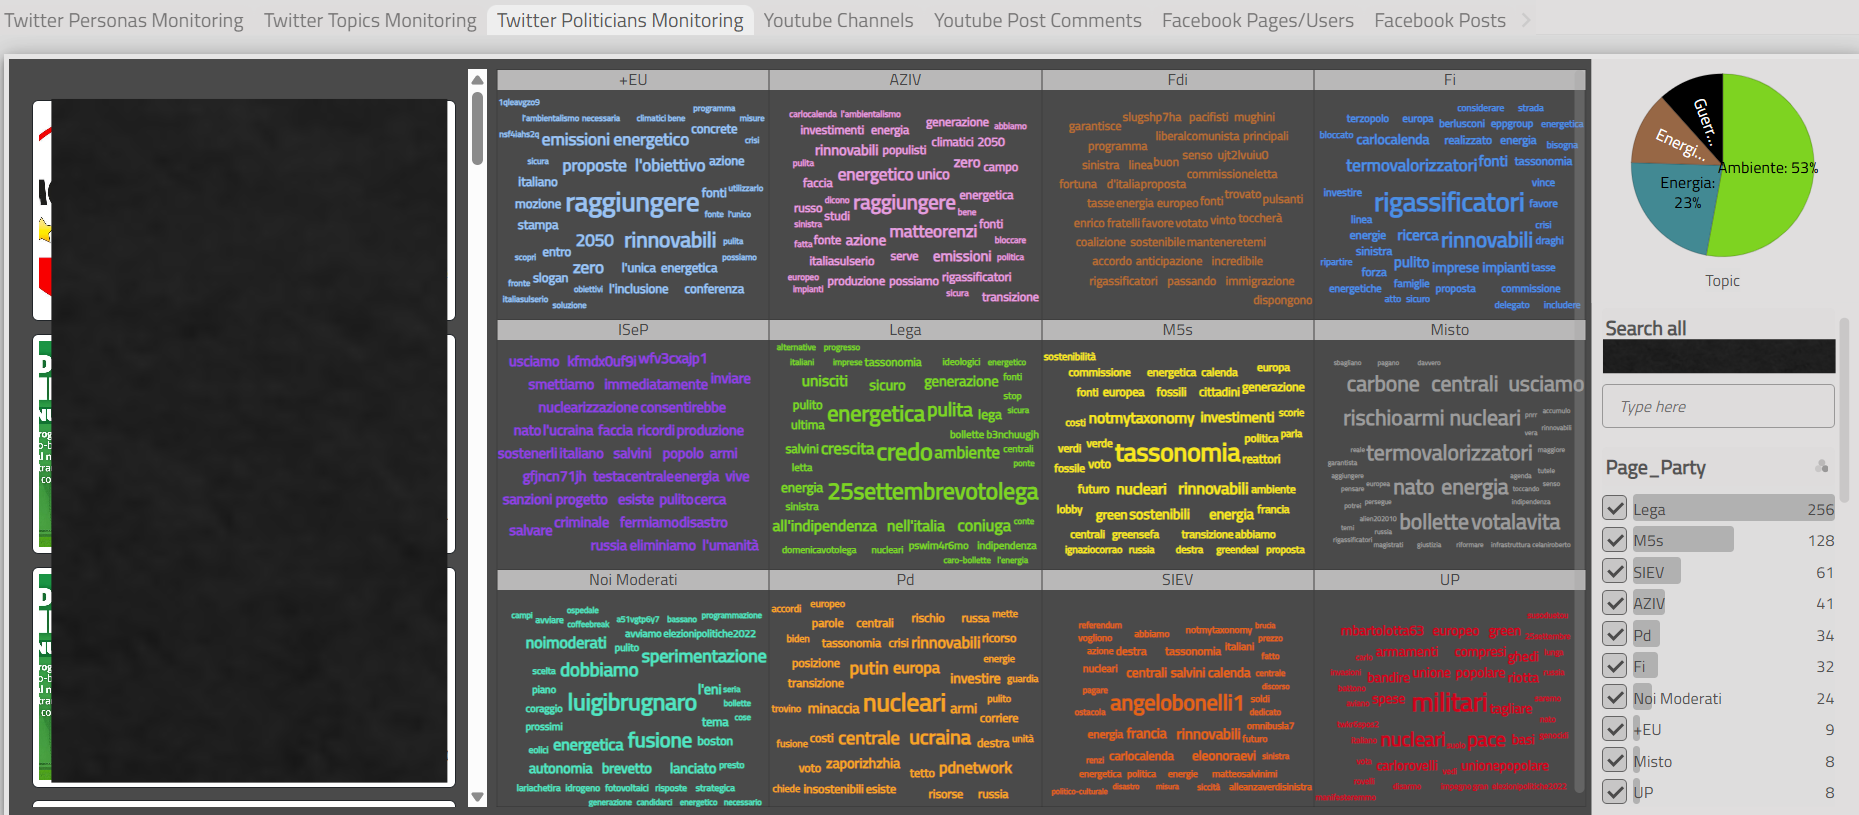
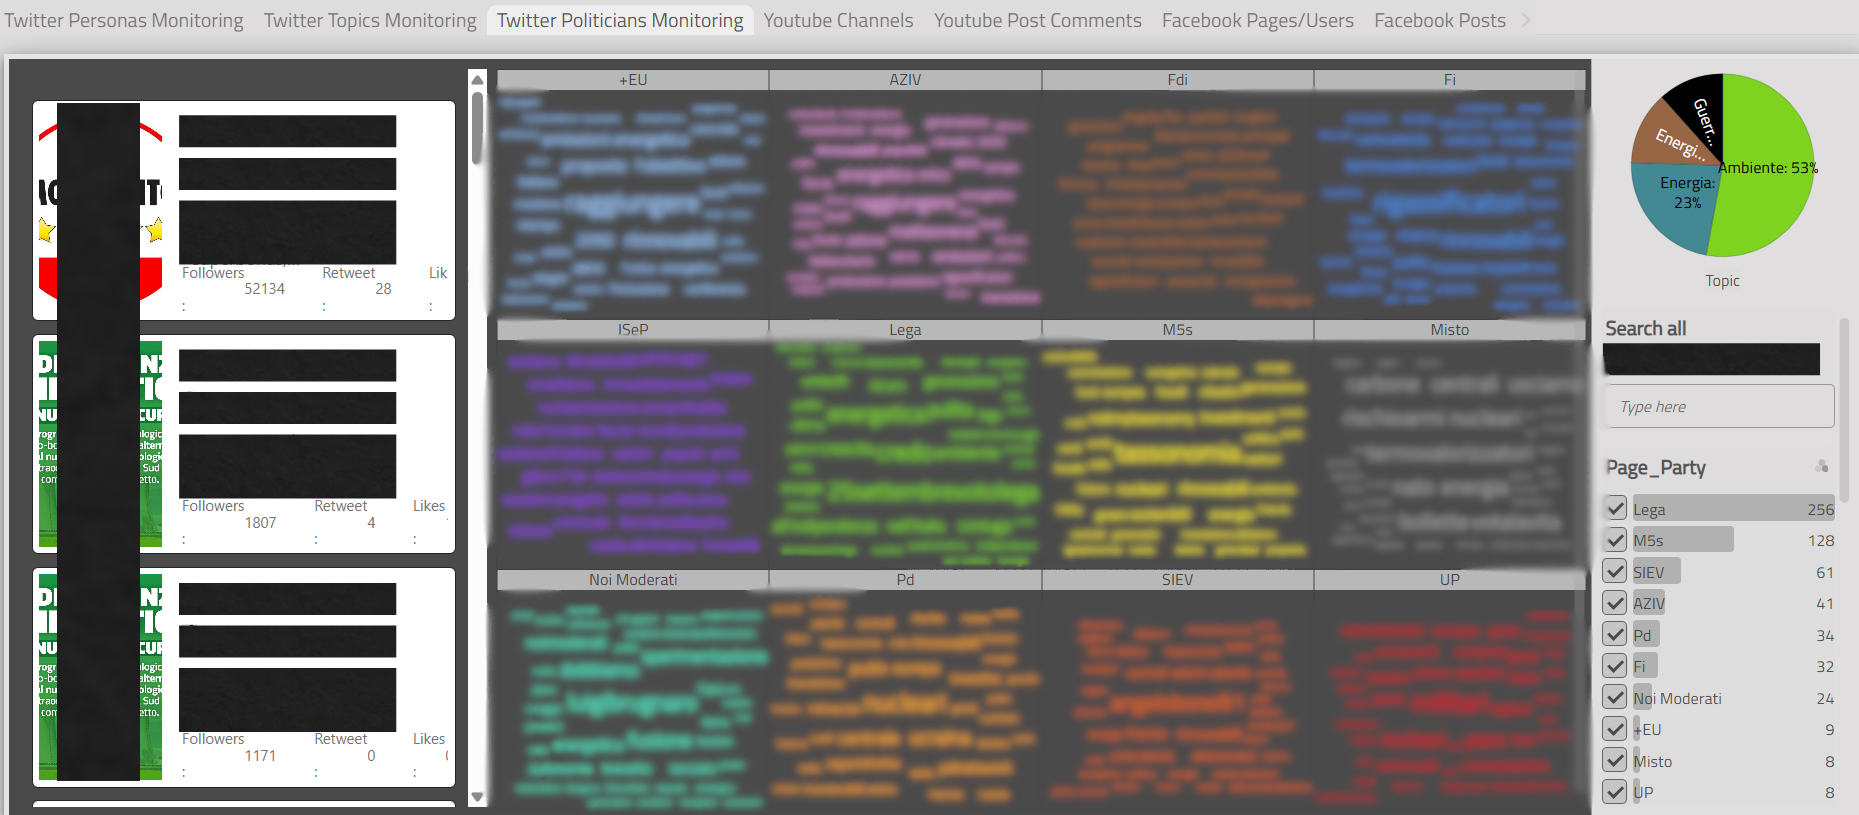
mobile version fixes

diff --git a/assets/portfolio/portfolio-entry-template.html b/assets/portfolio/portfolio-entry-template.html
@@ -647,8 +647,14 @@
                 clip-path: none;
                 --carousel-height: 220px;
             }
-            .hero-layout {
+            .hero-layout,
+            .hero-title,
+            .hero-carousel {
                 transform: none;
+                width: 100%;
+            }
+            .hero-carousel {
+                max-width: 100%;
             }
             .project-content {
                 transform: none;
@@ -974,6 +980,11 @@ She is the founder of O'Neil Risk Consulting & Algorithmic Auditing (ORCAA), an 
             }
 
             function computeMetrics() {
+                if (mobileQuery.matches) {
+                    resetLayout(false);
+                    scope.style.removeProperty('--hero-height');
+                    return;
+                }
                 resetLayout(false);
 
                 const layoutRect = heroLayout.getBoundingClientRect();

diff --git a/assets/portfolio/USPs-discovery/portfolio-entry.html b/assets/portfolio/USPs-discovery/portfolio-entry.html
@@ -647,8 +647,14 @@
                 clip-path: none;
                 --carousel-height: 220px;
             }
-            .hero-layout {
+                        .hero-layout,
+            .hero-title,
+            .hero-carousel {
                 transform: none;
+                width: 100%;
+            }
+            .hero-carousel {
+                max-width: 100%;
             }
             .project-content {
                 transform: none;
@@ -1013,6 +1019,11 @@
             }
 
             function computeMetrics() {
+                if (mobileQuery.matches) {
+                    resetLayout(false);
+                    scope.style.removeProperty('--hero-height');
+                    return;
+                }
                 resetLayout(false);
 
                 const layoutRect = heroLayout.getBoundingClientRect();

diff --git a/assets/portfolio/VRspace-activity-monitoring/portfolio-entry.html b/assets/portfolio/VRspace-activity-monitoring/portfolio-entry.html
@@ -647,8 +647,14 @@
                 clip-path: none;
                 --carousel-height: 220px;
             }
-            .hero-layout {
+                        .hero-layout,
+            .hero-title,
+            .hero-carousel {
                 transform: none;
+                width: 100%;
+            }
+            .hero-carousel {
+                max-width: 100%;
             }
             .project-content {
                 transform: none;
@@ -1045,6 +1051,11 @@
             }
 
             function computeMetrics() {
+                if (mobileQuery.matches) {
+                    resetLayout(false);
+                    scope.style.removeProperty('--hero-height');
+                    return;
+                }
                 resetLayout(false);
 
                 const layoutRect = heroLayout.getBoundingClientRect();

diff --git a/assets/portfolio/audience-analysis/portfolio-entry.html b/assets/portfolio/audience-analysis/portfolio-entry.html
@@ -647,8 +647,14 @@
                 clip-path: none;
                 --carousel-height: 220px;
             }
-            .hero-layout {
+                        .hero-layout,
+            .hero-title,
+            .hero-carousel {
                 transform: none;
+                width: 100%;
+            }
+            .hero-carousel {
+                max-width: 100%;
             }
             .project-content {
                 transform: none;
@@ -1031,6 +1037,11 @@
             }
 
             function computeMetrics() {
+                if (mobileQuery.matches) {
+                    resetLayout(false);
+                    scope.style.removeProperty('--hero-height');
+                    return;
+                }
                 resetLayout(false);
 
                 const layoutRect = heroLayout.getBoundingClientRect();

diff --git a/assets/portfolio/custom-analysis/portfolio-entry.html b/assets/portfolio/custom-analysis/portfolio-entry.html
@@ -647,8 +647,14 @@
                 clip-path: none;
                 --carousel-height: 220px;
             }
-            .hero-layout {
+                        .hero-layout,
+            .hero-title,
+            .hero-carousel {
                 transform: none;
+                width: 100%;
+            }
+            .hero-carousel {
+                max-width: 100%;
             }
             .project-content {
                 transform: none;
@@ -1008,6 +1014,11 @@
             }
 
             function computeMetrics() {
+                if (mobileQuery.matches) {
+                    resetLayout(false);
+                    scope.style.removeProperty('--hero-height');
+                    return;
+                }
                 resetLayout(false);
 
                 const layoutRect = heroLayout.getBoundingClientRect();

diff --git a/assets/portfolio/ecommerce-monitoring/portfolio-entry.html b/assets/portfolio/ecommerce-monitoring/portfolio-entry.html
@@ -647,8 +647,14 @@
                 clip-path: none;
                 --carousel-height: 220px;
             }
-            .hero-layout {
+                        .hero-layout,
+            .hero-title,
+            .hero-carousel {
                 transform: none;
+                width: 100%;
+            }
+            .hero-carousel {
+                max-width: 100%;
             }
             .project-content {
                 transform: none;
@@ -1048,6 +1054,11 @@
             }
 
             function computeMetrics() {
+                if (mobileQuery.matches) {
+                    resetLayout(false);
+                    scope.style.removeProperty('--hero-height');
+                    return;
+                }
                 resetLayout(false);
 
                 const layoutRect = heroLayout.getBoundingClientRect();

diff --git a/assets/portfolio/football-analytics/portfolio-entry.html b/assets/portfolio/football-analytics/portfolio-entry.html
@@ -647,8 +647,14 @@
                 clip-path: none;
                 --carousel-height: 220px;
             }
-            .hero-layout {
+                        .hero-layout,
+            .hero-title,
+            .hero-carousel {
                 transform: none;
+                width: 100%;
+            }
+            .hero-carousel {
+                max-width: 100%;
             }
             .project-content {
                 transform: none;
@@ -1032,6 +1038,11 @@
             }
 
             function computeMetrics() {
+                if (mobileQuery.matches) {
+                    resetLayout(false);
+                    scope.style.removeProperty('--hero-height');
+                    return;
+                }
                 resetLayout(false);
 
                 const layoutRect = heroLayout.getBoundingClientRect();

diff --git a/assets/portfolio/herd-supervision/portfolio-entry.html b/assets/portfolio/herd-supervision/portfolio-entry.html
@@ -647,8 +647,14 @@
                 clip-path: none;
                 --carousel-height: 220px;
             }
-            .hero-layout {
+                        .hero-layout,
+            .hero-title,
+            .hero-carousel {
                 transform: none;
+                width: 100%;
+            }
+            .hero-carousel {
+                max-width: 100%;
             }
             .project-content {
                 transform: none;
@@ -1026,6 +1032,11 @@
             }
 
             function computeMetrics() {
+                if (mobileQuery.matches) {
+                    resetLayout(false);
+                    scope.style.removeProperty('--hero-height');
+                    return;
+                }
                 resetLayout(false);
 
                 const layoutRect = heroLayout.getBoundingClientRect();

diff --git a/assets/portfolio/media-intelligence/portfolio-entry.html b/assets/portfolio/media-intelligence/portfolio-entry.html
@@ -647,8 +647,14 @@
                 clip-path: none;
                 --carousel-height: 220px;
             }
-            .hero-layout {
+                        .hero-layout,
+            .hero-title,
+            .hero-carousel {
                 transform: none;
+                width: 100%;
+            }
+            .hero-carousel {
+                max-width: 100%;
             }
             .project-content {
                 transform: none;
@@ -1013,6 +1019,11 @@
             }
 
             function computeMetrics() {
+                if (mobileQuery.matches) {
+                    resetLayout(false);
+                    scope.style.removeProperty('--hero-height');
+                    return;
+                }
                 resetLayout(false);
 
                 const layoutRect = heroLayout.getBoundingClientRect();

diff --git a/assets/portfolio/navigation-analysis/portfolio-entry.html b/assets/portfolio/navigation-analysis/portfolio-entry.html
@@ -647,8 +647,14 @@
                 clip-path: none;
                 --carousel-height: 220px;
             }
-            .hero-layout {
+                        .hero-layout,
+            .hero-title,
+            .hero-carousel {
                 transform: none;
+                width: 100%;
+            }
+            .hero-carousel {
+                max-width: 100%;
             }
             .project-content {
                 transform: none;
@@ -1030,6 +1036,11 @@
             }
 
             function computeMetrics() {
+                if (mobileQuery.matches) {
+                    resetLayout(false);
+                    scope.style.removeProperty('--hero-height');
+                    return;
+                }
                 resetLayout(false);
 
                 const layoutRect = heroLayout.getBoundingClientRect();

diff --git a/assets/portfolio/niche-market-research/portfolio-entry.html b/assets/portfolio/niche-market-research/portfolio-entry.html
@@ -647,8 +647,14 @@
                 clip-path: none;
                 --carousel-height: 220px;
             }
-            .hero-layout {
+                        .hero-layout,
+            .hero-title,
+            .hero-carousel {
                 transform: none;
+                width: 100%;
+            }
+            .hero-carousel {
+                max-width: 100%;
             }
             .project-content {
                 transform: none;
@@ -1020,6 +1026,11 @@
             }
 
             function computeMetrics() {
+                if (mobileQuery.matches) {
+                    resetLayout(false);
+                    scope.style.removeProperty('--hero-height');
+                    return;
+                }
                 resetLayout(false);
 
                 const layoutRect = heroLayout.getBoundingClientRect();
